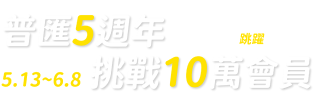
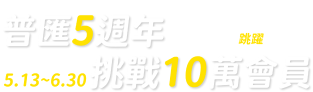
feature: 活動文字修改及完成手機分頁功能

diff --git a/resources/js/frontdesk/pages/jumpEvent.vue b/resources/js/frontdesk/pages/jumpEvent.vue
@@ -89,10 +89,10 @@
       <div class="block-content">
         <div class="method-title">活動時間</div>
         <div class="method-time">
-          22.5.13 (五) 12：00 AM ~ 6.8 (三) 23：59 PM
+          22.5.13 (五) 12：00 AM ~ 6.30 (四) 23：59 PM
         </div>
         <div class="method-title">活動結果公布</div>
-        <div class="method-time">22.6.10 (五) 12：00 PM</div>
+        <div class="method-time">22.7.4 (一) 15：00 PM</div>
         <div class="method-title">如何參加？</div>
         <div class="method-step">
           <div class="method-step-item">
@@ -150,16 +150,12 @@
           <input class="search-input" type="text" />
         </form>
         <div class="works">
-          <div class="work-item" v-for="i in 5" :key="i">
-            <div class="work-item-title">我是小普</div>
+          <div class="work-item" v-for="item in workList" :key="item.id">
+            <div class="work-item-title">{{ item.nick_name }}</div>
             <div class="work-item-img">
-              <img
-                class="img-fluid"
-                src="https://via.placeholder.com/120x180"
-                alt=""
-              />
+              <img class="img-fluid" :src="'/' + item.file_name" alt="" />
             </div>
-            <div class="work-item-num">NO.001</div>
+            <div class="work-item-num">NO.{{ item.id }}</div>
             <div class="work-item-vote">
               <button class="btn p-0">
                 <img
@@ -167,12 +163,12 @@
                   src="@/asset/images/jump/seo-internet-like.svg"
                 />
               </button>
-              <span class="vote-num">100票</span>
+              <span class="vote-num">{{ item.votes }}票</span>
             </div>
           </div>
         </div>
         <div class="text-center">
-          <button class="btn">
+          <button class="btn" @click="loadList">
             <img src="@/asset/images/jump/load-more.svg" />
           </button>
         </div>
@@ -213,8 +209,8 @@
         <div class="bouns-title mt-3">活動詳情</div>
         <div class="bouns-info">
           <div>一、活動日期：</div>
-          <div>2022/5/13(五)中午12:00整至2022/6/8(三)晚間23:59整，</div>
-          <div>並於2022/6/10(五)中午12:00於官網公佈本次活動獲獎者。</div>
+          <div>2022/5/13(五)中午12:00整至2022/6/30(四)晚間23:59整，</div>
+          <div>並於2022/7/4(一)下午15:00於官網公佈本次活動獲獎者。</div>
           <div class="mt-3">二、活動規範：</div>
           <div>
             拍攝主題為『跳躍』，上傳跳躍動作之直式4:3照片，加入慶生祝褔(ex：祝賀語、生日圖示、普匯特色等)，參賽者可自行加入創意與各式元素。(唯主辦單位保有審核參加資格之權利，若有不適當圖片主辦單位有權刪除其內容並取消參賽資格)
@@ -229,8 +225,7 @@
             3. 每一會員每天有3票，不限同件作品。(投票者須先成為官方會員)
           </div>
           <div>
-            4. 得獎者請於2022/6/24 (五)
-            前主動聯繫主辦單位，提供「我的使用者編號」及「照片電子檔」驗證獲獎資格，逾期視同放棄。
+            4. 得獎者請於2022/7/15 (五) 前主動聯繫主辦單位，提供「我的使用者編號」及「照片電子檔」驗證獲獎資格，逾期視同放棄。
           </div>
           <div class="mt-3">四、主辦單位聯繫方式：</div>
           <div>聯絡電話 : (02)2507-9990</div>
@@ -363,7 +358,10 @@ export default {
       nickNameInput: '',
       flag: '',
       fileName: '',
-      file: new File([], '')
+      file: new File([], ''),
+      workList: [],
+      currentPage: 1,
+      maxPage: 1
     }
   },
   mounted() {
@@ -371,11 +369,11 @@ export default {
       x: 500,
       duration: 2
     })
+    this.loadList()
     alesisIndexCounter().then(v => {
       this.indexCounter = v
     })
     this.flag = sessionStorage.getItem('flag') ? sessionStorage.getItem('flag') : '';
-    Axios.get('api/v1/campaign2022/list')
   },
   methods: {
     onUpload() {
@@ -422,13 +420,25 @@ export default {
           data: formData,
           mimeType: 'multipart/form-data',
         })
-        if(data.success){
-            alert('上傳成功')
-            location.reload()
-        }else{
-            alert('上傳失敗，請稍後再試')
+        if (data.success) {
+          alert('上傳成功')
+          location.reload()
+        } else {
+          alert('上傳失敗，請稍後再試')
         }
       }
+    },
+    loadList() {
+      if (this.currentPage > this.maxPage) {
+        return
+      }
+      Axios.get('/api/v1/campaign2022/list/page/' + this.currentPage).then(({ data }) => {
+        if (data.success) {
+          this.workList = [...this.workList, ...data.data.list]
+          this.maxPage = Math.ceil(data.data.total / 3)
+          this.currentPage = this.currentPage + 1
+        }
+      })
     }
   },
 }
